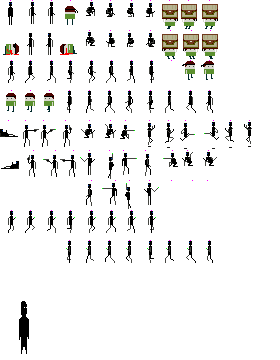
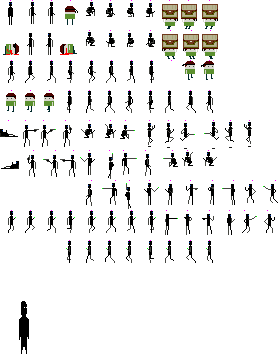
Added 3-steps combo including two punches and one kick. Could be combined with other weapon.

diff --git a/actors_description.py b/actors_description.py
@@ -1468,12 +1468,12 @@ player_jake = {
             'speed': 2,
             'repeat from frame': 2
         },
-        'kick right': {
+        'kick combo 1 right': {
             'repeat': False, 'interruptable': True,
-            'sequence': (63,63,64,64,65,65,65,65,64,63), # 5 - 9
+            'sequence': (109,108,107,106,106,106,109,),  # 5 - 9
             'speed': 2,
             'activity at frames': {
-                4: {
+                3: {
                     'sound': True,
                     # 'move': 10,  # Slightly move actor forward,
                     'demolishers set number': 0,
@@ -1482,14 +1482,70 @@ player_jake = {
             },
             'repeat from frame': 0
         },
-        'kick left': {
+        'kick combo 2 right': {
+            'repeat': False, 'interruptable': True,
+            'sequence': (109,109,111,111,110,110,110,),  # 5 - 9
+            'speed': 2,
+            'activity at frames': {
+                4: {
+                    'sound': True,
+                    # 'move': 10,  # Slightly move actor forward,
+                    'demolishers set number': 1,
+                    'demolisher': True
+                },
+            },
+            'repeat from frame': 0
+        },
+        'kick combo 3 right': {
+            'repeat': False, 'interruptable': True,
+            'sequence': (63,63,64,64,65,65,65,64,63,63), # 5 - 9
+            'speed': 2,
+            'activity at frames': {
+                4: {
+                    'sound': True,
+                    # 'move': 10,  # Slightly move actor forward,
+                    'demolishers set number': 2,
+                    'demolisher': True
+                },
+            },
+            'repeat from frame': 0
+        },
+        'kick combo 1 left': {
+            'repeat': False, 'interruptable': True,
+            'sequence': (92,93,94,95,95,95,92,),  # 0 - 4
+            'activity at frames': {
+                3: {
+                    'sound': True,
+                    # 'move': 10, # Slightly move actor forward,
+                    'demolishers set number': 0,
+                    'demolisher': True
+                },
+            },
+            'speed': 2,
+            'repeat from frame': 0
+        },
+        'kick combo 2 left': {
+            'repeat': False, 'interruptable': True,
+            'sequence': (92,92,96,96,97,97,97),  # 0 - 4
+            'activity at frames': {
+                4: {
+                    'sound': True,
+                    # 'move': 10, # Slightly move actor forward,
+                    'demolishers set number': 1,
+                    'demolisher': True
+                },
+            },
+            'speed': 2,
+            'repeat from frame': 0
+        },
+        'kick combo 3 left': {
             'repeat': False, 'interruptable': True,
             'sequence': (68,68,67,67,66,66,66,66,67,68),  # 0 - 4
             'activity at frames': {
                 4: {
                     'sound': True,
                     # 'move': 10, # Slightly move actor forward,
-                    'demolishers set number': 0,
+                    'demolishers set number': 2,
                     'demolisher': True
                 },
             },

diff --git a/weapons.py b/weapons.py
@@ -278,7 +278,8 @@ whip = {
 }
 
 jake_kick = {
-    'combo': False, 'combo steps quantity': 0, 'combo next step threshold': 0,    'description': 'A powerful kick, called The Boot of Doom.',
+    'combo': True, 'combo steps quantity': 3, 'combo next step threshold': 30,
+    'description': 'A powerful kick, called The Boot of Doom.',
     'class': 'weapons',
     'type': 'melee',
     'label': 'jake kick',
@@ -300,17 +301,51 @@ jake_kick = {
     'reach': 170,
     'weight': 10,
     'demolishers': (
+        # 'demolishers set number' #0
+        ({
+             'rect': pygame.Rect(0, 0, 50, 50), 'flyer': False,
+             'visible': False,
+             'demolisher sprite': 'jake kick demolisher',
+             'pierce': True, 'demolisher TTL': 3, 'speed': 0,
+             'static': True, 'damage reduce': 0,
+             'collides': False, 'gravity affected': False,
+             'bounce': False, 'bounce factor': 0.,
+             'attack type': ('smash',),
+             'damage': {
+                 'smash': 30,
+             },
+             # 'aftermath': 'explode'
+             'aftermath': 'disappear'
+         },),
+        # 'demolishers set number' #1
+        ({
+             'rect': pygame.Rect(0, 0, 50, 50), 'flyer': False,
+             'visible': False,
+             'demolisher sprite': 'jake kick demolisher',
+             'pierce': True, 'demolisher TTL': 3, 'speed': 0,
+             'static': True, 'damage reduce': 0,
+             'collides': False, 'gravity affected': False,
+             'bounce': False, 'bounce factor': 0.,
+             'attack type': ('smash',),
+             'damage': {
+                 'smash': 50,
+             },
+             # 'aftermath': 'explode'
+             'aftermath': 'disappear'
+         },),
+
+        # 'demolishers set number' #2
         ({
             'rect': pygame.Rect(0, 0, 170, 5), 'flyer': False,
              'visible': True,
             'demolisher sprite': 'jake kick demolisher',
-            'pierce': True, 'demolisher TTL': 8, 'speed': 0,
+            'pierce': True, 'demolisher TTL': 5, 'speed': 0,
             'static': True, 'damage reduce': 0,
             'collides': False, 'gravity affected': False,
             'bounce': False, 'bounce factor': 0.,
             'attack type': ('smash',),
              'damage': {
-                 'smash': 10,
+                 'smash': 150,
              },
             # 'aftermath': 'explode'
             'aftermath': 'disappear'
